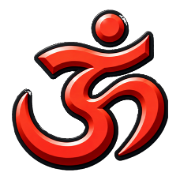
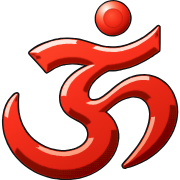
Use the vector mark
Replaces the raster mark with brand/mark.svg. It is 512-viewBox, already
transparent, and needs no background removal, so the flood-fill cutout and
its PNG output are gone.

- 16.6 KB gzipped against the PNG's 41 KB, and resolution-independent
- favicon now serves the SVG; apple-touch-icon keeps a PNG because Safari
  will not take an SVG there, and that PNG is regenerated from the vector
  so every asset derives from one source
- dropped the 512 PNG master; any size can be exported from the SVG

Note: the vector does not carry the heavy black outline the raster had. At
the ~30px the nav uses, the two are indistinguishable, but the difference
is visible at large sizes and the outline is what tied the mark to the
site's outlined panels.

diff --git a/privacy/index.html b/privacy/index.html
@@ -6,7 +6,7 @@
   <title>Privacy Policy — Nimrita Games</title>
   <meta name="description" content="Privacy policy covering all Nimrita Games apps on Google Play." />
   <meta name="theme-color" content="#FEEFDC" />
-  <link rel="icon" href="/brand/mark-180.png">
+  <link rel="icon" type="image/svg+xml" href="/brand/mark.svg">
   <link rel="apple-touch-icon" href="/brand/mark-180.png">
   <link rel="preconnect" href="https://fonts.gstatic.com" crossorigin>
   <link rel="preconnect" href="https://fonts.googleapis.com">

diff --git a/index.html b/index.html
@@ -6,7 +6,7 @@
   <title>Nimrita Games</title>
   <meta name="description" content="A one-person studio making small 2D games for Android." />
   <meta name="theme-color" content="#FEEFDC" />
-  <link rel="icon" href="/brand/mark-180.png">
+  <link rel="icon" type="image/svg+xml" href="/brand/mark.svg">
   <link rel="apple-touch-icon" href="/brand/mark-180.png">
   <meta property="og:title" content="Nimrita Games" />
   <meta property="og:description" content="A one-person studio making small 2D games for Android." />

diff --git a/support/index.html b/support/index.html
@@ -6,7 +6,7 @@
   <title>Support — Nimrita Games</title>
   <meta name="description" content="Support and contact for Nimrita Games apps on Google Play." />
   <meta name="theme-color" content="#FEEFDC" />
-  <link rel="icon" href="/brand/mark-180.png">
+  <link rel="icon" type="image/svg+xml" href="/brand/mark.svg">
   <link rel="apple-touch-icon" href="/brand/mark-180.png">
   <link rel="preconnect" href="https://fonts.gstatic.com" crossorigin>
   <link rel="preconnect" href="https://fonts.googleapis.com">

diff --git a/design-system.css b/design-system.css
@@ -269,7 +269,7 @@ code { font-family: var(--mono); font-size: 0.9em; }
 .brand-mark {
   width: 1.9rem;
   height: 1.9rem;
-  background-image: url("/brand/mark-180.png");
+  background-image: url("/brand/mark.svg");
   background-size: contain;
   background-position: center;
   background-repeat: no-repeat;
